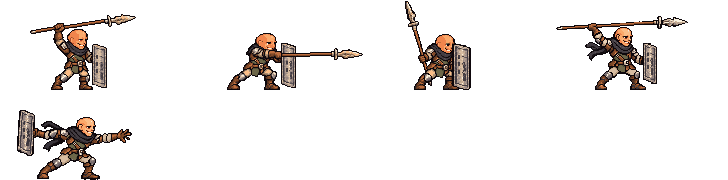
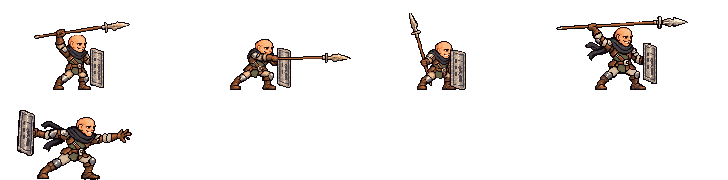
Ulric lunges at his own size, with his own face
His attack drawings had been sampled on a grid finer than the art's own,
so he grew by a tenth or more as he struck, and his face came apart: the
brow went to the tunic's olive, the eye lost its glint. Each frame is now
sampled on its own grid (6.4, 6.5 and 6.65 px), which brings his shield
to the 38 pixels it is when he stands. His skin, a shade too orange
throughout, takes his standing pose's shades in the same shares, the
lightest where the drawing is lightest, and his brow, eye and lower lid
are his standing pose's.

diff --git a/client/js/heroes/bandit.js b/client/js/heroes/bandit.js
@@ -4,9 +4,10 @@
 // Source art: assets/hero/bandit.json (59x81, from bandit-stand.webp) and bandit-kneel.json
 // (44x50, his resting squat from bandit-kneel.webp, used exactly as drawn). His lunge
 // (bandit-attack.json: the spear cocked over his head, thrust out past the shield, drawn back
-// upright) and his Tenfold Spears (bandit-ult.json: the spear cocked back like a javelin, then
-// thrown, his hand open) are drawn whole; the spear reaches far beyond his frame, so they're kept
-// in a bigger one (core.js, bigFrame).
+// upright; his size, his skin's shades and his eye those of his standing pose) and his Tenfold
+// Spears (bandit-ult.json: the spear cocked back like a javelin, then thrown, his hand open) are
+// drawn whole; the spear reaches far beyond his frame, so they're kept in a bigger one (core.js,
+// bigFrame).
 
 import { Img, NONE, region, blit, rotatable, drawRotated, prepareStill, composeStill, held } from './core.js';
 
@@ -33,9 +34,9 @@ const TIP_ANGLE = Math.atan2(TIP.y - GRIP.y, TIP.x - GRIP.x);
 // stands as he stands, and the row he stands on; thrown, where the spears leave his hand (`from`).
 const DRAWN = {
   attack: [
-    { mid: 64, ground: 83 },
-    { mid: 31, ground: 83 },
-    { mid: 75, ground: 88 },
+    { mid: 43, ground: 69 },
+    { mid: 28, ground: 51 },
+    { mid: 32, ground: 77 },
   ],
   ult: [
     { mid: 67, ground: 74 },
